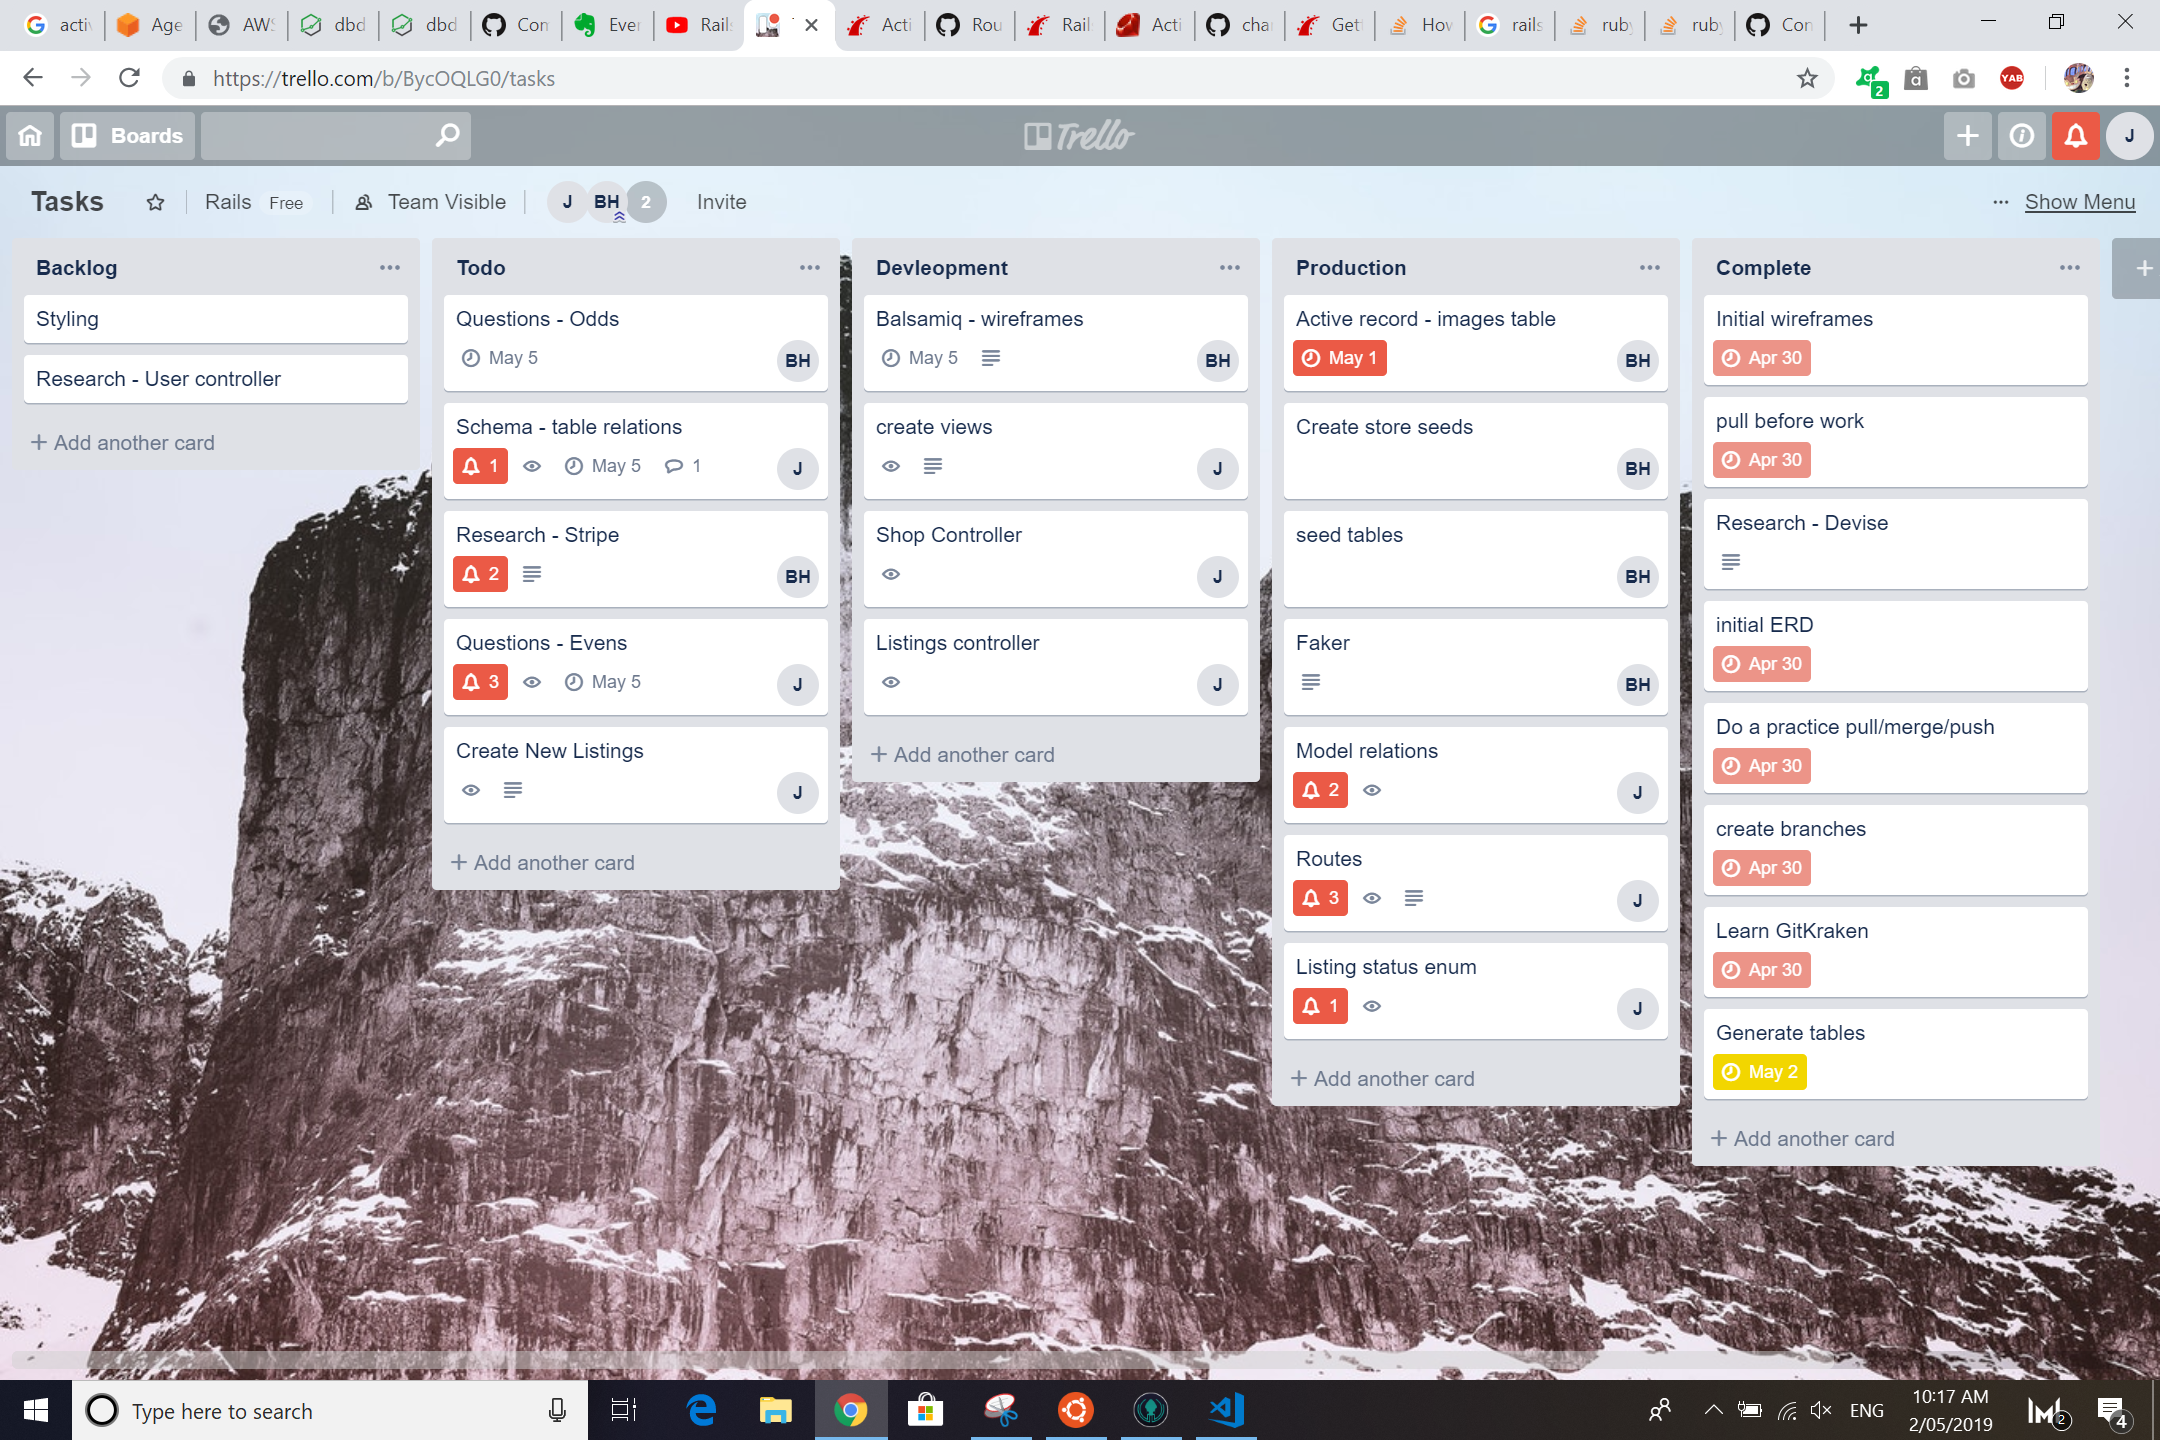
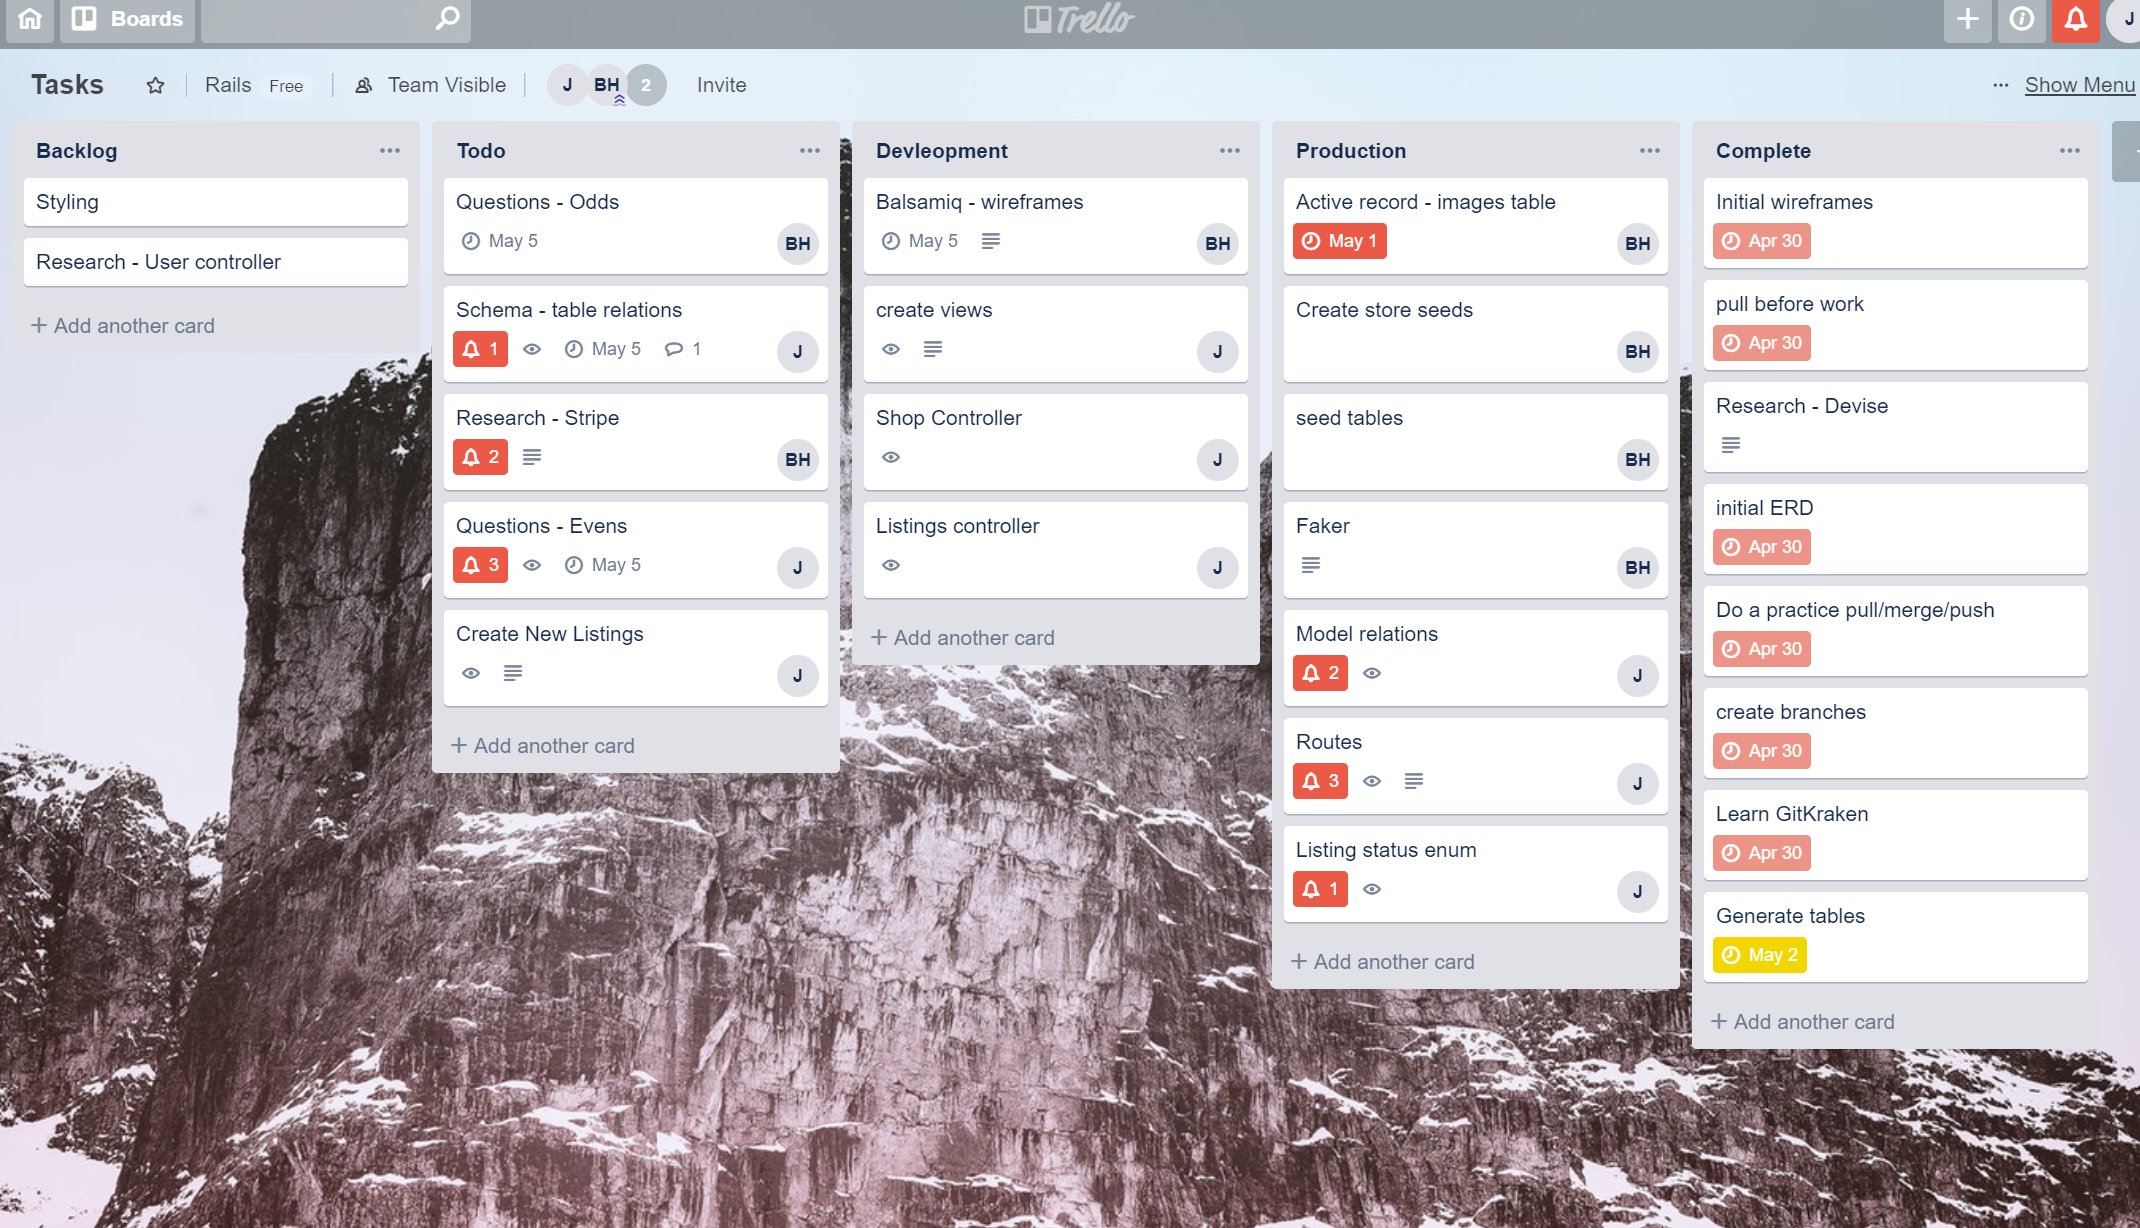
cropped images for docs
cropped images for docs

diff --git a/README.md b/README.md
@@ -3,40 +3,41 @@
 ## [ Project - Github Repo](https://github.com/josephine-c/Rails_Assessment)
 ## [Published App - Heroku](https://blooming-lowlands-28068.herokuapp.com/)
 
-### Description: 
+### **Description** 
 The Shopperoo app resolves the problem of shopping for items which users are usually inaccessible to for reasons such as inconvenient store hours (same as user’s work hours) or an absent online store/website (i.e. small business boutique stores). Shopperoo will allow any user to purchase items and any user to be able to forfill the order (i.e. task of buying listed items and delivering them to the purchaser)
 
-### Features:
-* Autherization
+### **Features**:
+* **Authorization**
     - Sign up
     - Log-in
- * Shops
+* **Navigation**
+    - Links
+    - Buttons
+    - Nav bar
+* **Shops**
     - Browse shops
     - Browse items/products associated with shops
- * Cart
-    - Add items to cart
-    - Remove items from cart
-    - Checkout
- * Shopping lists
+* **Shopping lists**
     - Create Lists/jobs
     - View open shoppings lists(Yet to be accpeted)
     - Accept Lists/jobs
     - Mark job status as delivered
-* Navigation
-    - Links
-    - Buttons
-    - Nav bar
-* Payment
+* **Cart**
+    - Add items to cart
+    - Remove items from cart
+    - Checkout
+* **Payment**
     - Stripe redirection
     - Third party payment handling.
 
-### Screenshots:
+### **Shopperoo App Screenshots**
 
-## Tech-stack
-* Ruby on rails
+[INSERT images of finished App]
+
+## **Tech-stack**
+* Ruby on Rails
 * Puma
 * HTML/CSS
-    - Bootstrap
 * Slack
 * Goggle Docs
 * GitHub
@@ -48,40 +49,39 @@ The Shopperoo app resolves the problem of shopping for items which users are usu
 * Ultrahook
 * Stripe
 
-* Gems
+* **Gems**:
     - Devise 
     - Cypress
     - Byebug
     - Bootstrap
     - Stripe
 
-
-### Ruby version: 
+### **Ruby version**:  
 * ruby 2.6.0p0
 
-### System dependencies: 
+### **System dependencies**: 
 * devise
 * aws-sdk-s3 ~> 1.36
 * faker ~> 1.9
 * stripe ~> 4.16
 * ultrahook ~> 0.1.5
 
-* For other dependencies please check the gemfile 
+* *For other dependencies please check the gemfile* 
 
 
-### Deployment instructions
+### **Deployment instructions**
 
     $ gem install bundler
     $ bundle install
 
-### Database creation and initialization
+### **Database creation and initialization**
 
     $ heroku run bundle install
     $ heroku run rails db:create
     $ heroku run rails db:migrate
     $ heroku run rails db:seed
 
-### User Instructions for Shopperoo App
+### **User Instructions for Shopperoo App**
 * [Open site](https://blooming-lowlands-28068.herokuapp.com/)
 * From the landing page navigate to join or login links
 
@@ -108,7 +108,7 @@ The Shopperoo app resolves the problem of shopping for items which users are usu
 * Click 'checkout' button
 * Proceed with stripe checkout.
 * After payment the user will be redirected to the payment success page.
-* Log out when you have finished using the web App
+* Log out when you have finished using the App
 
 #### 5. Completing an ordering job (As a Courier) - Earning Money
 * From the 'home' page
@@ -118,38 +118,45 @@ The Shopperoo app resolves the problem of shopping for items which users are usu
 * This will then redirect you to your homepage and the listing will display under your 'Jobs' list
 * Once a job has been completed click on the 'delivered' button to confirm your job has been completed for your job payment to be processed
 * This job will be removed from your homepage and you are set to chose your next job listing.
-* Log out when you have finished using the web App
+* Log out when you have finished using the App
 
-## Design Documentation
-### 1. Design process 
-i. **Mood board** (developed using Pintrest) Ideally the shops in Shopperoo would give an online prescence to small boutique buisnesses which may not have an online store/wesbite. Images from various store catorgies range from bookstores, stationary, art/craft supplies stores, baby shops, women/mens's clothing and jewellry stores, bicycle shops, hiking/sporting goods stores, shoe stores and other cute and quaint shops. There is an industrial, handmade, minimalistic feel to the mood/vibe of the mood board.
+## **Design Documentation**
+### **1. Design Process** 
+**i. Mood board** (developed using Pintrest) 
+
+Ideally the shops in Shopperoo would give an online prescence to small boutique buisnesses which may not have an online store/wesbite. Images from various store catorgies range from bookstores, stationary, art/craft supplies stores, baby shops, women/mens's clothing and jewellry stores, bicycle shops, hiking/sporting goods stores, shoe stores and other cute and quaint shops. There is an industrial, handmade, minimalistic feel to the mood/vibe of the mood board.
 
 ![Shopperoo's Mood Board](./docs/MoodBoard-shopperoo-2019-05-06-15_09_09.png)
 
-ii. **Color Scheme** (sourced using Canva) From the mood board one of the pictures from a bicycle shop was used to develop a color palette/scheme (see image below) for the Shopperoo App.
+**ii. Color Scheme** (sourced using Canva)
+
+ From the mood board one of the happy pictures from a bicycle shop was used to develop a color palette/scheme (see image below) for the Shopperoo App.
 
 ![Shopperoo's Color Scheme](./docs/Shopperoo_color_scheme_v2.png)
 
-google fonts, 
+**iii. Typography/Font Design** 
 
-* logo
+Using Google Fonts, two fonts were selected to be used in the Shopperoo App, to maintain the 'industrial/minimalistic feel' branding and maintain consistency throughout the App.
 
-### 2. User stories:
-* As Josephine, I want to be able to get outfit accessories from a cute boutique shop on the other side of town (while I’m busy at work) delivered to me so that I can look my best when delivering my work presentation.
-* As Bryce, I want to make money in my spare time performing quick shopping trips, so that I have extra money to spend on the weekend. 
-* As Mandy, I want to become more accessible to customers so I can generate more revenue.
+**iv. Logo Design**
 
-### 3. A workflow diagram of the user journey/s
+Having a fun play of words as the name of the App (i.e. Shopperoo = Shopping + Kanga"Roo")
+
+### **2. User stories**:
+* As **Josephine**, I want to be able to get outfit accessories from a cute boutique shop on the other side of town (while I’m busy at work) delivered to me so that I can look my best when delivering my work presentation.
+* As **Bryce**, I want to make money in my spare time performing quick shopping trips, so that I have extra money to spend on the weekend. 
+* As **MonsterThreads**, I want to become more accessible to customers so I can generate more revenue.
+
+### **3. A workflow diagram of the user journey/s**
 [MAKE & INSERT IMAGE]
 
-### 4. Wireframes 
+### **4. Wireframes**
 [BRYCE INSERT]
 
-### 5. Database Entity Relationship Diagrams (ERD)
+### **5. Database Entity Relationship Diagrams (ERD)**
 ![Shopperoo's Database Entity Relationship Diagram](./docs/ERD_Shopperoo_v6.png)
 
-
-## Details of planning process 
+## **Details of planning process** 
 ### **Project plan & timeline (A & B)**
 
 ### **A. Project plan:**
@@ -180,7 +187,8 @@ google fonts,
 
 **5. DOCUMENTATION** (29.4.2019 - 12.5.2019) - Collecting trello screenshots and working on different aspects of the documentation happens throughout the entire duration of the project, however finalising and compiling will mainly be covered in the last project sprint (Sprint 5 - 9.5.2019 to 12.5.2019)
 
-### **Screenshots of Trello board(s)**
+### **Screenshots of Trello boards during timeline**
+![Trello-1](./)
 [Insert images]
 
 ## Answers to the Short Answer questions (Section 2.2):
